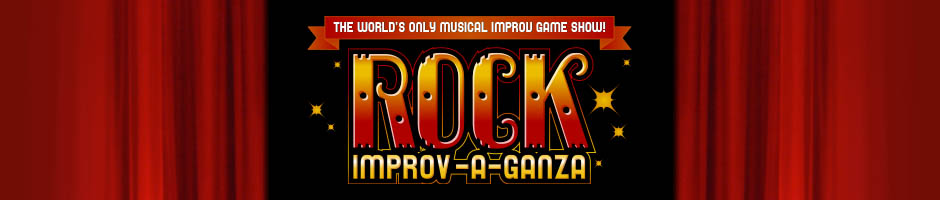
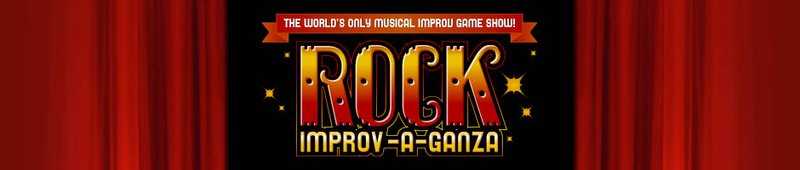
Add files via upload

diff --git a/index.html b/index.html
@@ -7,26 +7,22 @@
   <meta name="apple-mobile-web-app-status-bar-style" content="black"/>
   <meta name="apple-mobile-web-app-title" content="Rock Improv-a-Ganza"/>
   <title>Rock Improv-a-Ganza</title>
-  <link rel="preconnect" href="https://fonts.googleapis.com"/>
   <link href="https://fonts.googleapis.com/css2?family=Oswald:wght@400;600;700&display=swap" rel="stylesheet"/>
-  <style>
-    * { margin: 0; padding: 0; box-sizing: border-box; }
-    body { background: #0a0a0a; }
-    #root { min-height: 100vh; }
-  </style>
+  <style>* { margin:0; padding:0; box-sizing:border-box; } body { background:#0a0a0a; }</style>
 </head>
 <body>
   <div id="root"></div>
-  <script src="https://unpkg.com/react@18/umd/react.production.min.js" crossorigin></script>
-  <script src="https://unpkg.com/react-dom@18/umd/react-dom.production.min.js" crossorigin></script>
+  <script src="https://unpkg.com/react@18/umd/react.production.min.js"></script>
+  <script src="https://unpkg.com/react-dom@18/umd/react-dom.production.min.js"></script>
   <script src="https://unpkg.com/@babel/standalone/babel.min.js"></script>
   <script src="https://unpkg.com/three@0.128.0/build/three.min.js"></script>
   <script type="text/babel" data-presets="react" src="app.jsx"></script>
   <script>
-    // Mount after app.jsx loads
-    window.addEventListener('load', function() {
-      const root = ReactDOM.createRoot(document.getElementById('root'));
-      root.render(React.createElement(window.App || App));
+    document.addEventListener('DOMContentLoaded', function() {
+      setTimeout(function() {
+        const root = ReactDOM.createRoot(document.getElementById('root'));
+        root.render(React.createElement(App));
+      }, 100);
     });
   </script>
 </body>

diff --git a/app.jsx b/app.jsx
@@ -171,7 +171,7 @@ function createAudio() {
 const audio = createAudio();
 const IMG_TOME = "assets/tome.png";
 const IMG_DIE = "assets/die.png";
-const IMG_HOURGLASS = "assets/hourglass.png";
+const IMG_HOURGLASS = "assets/hourglass.jpg";
 
 
 